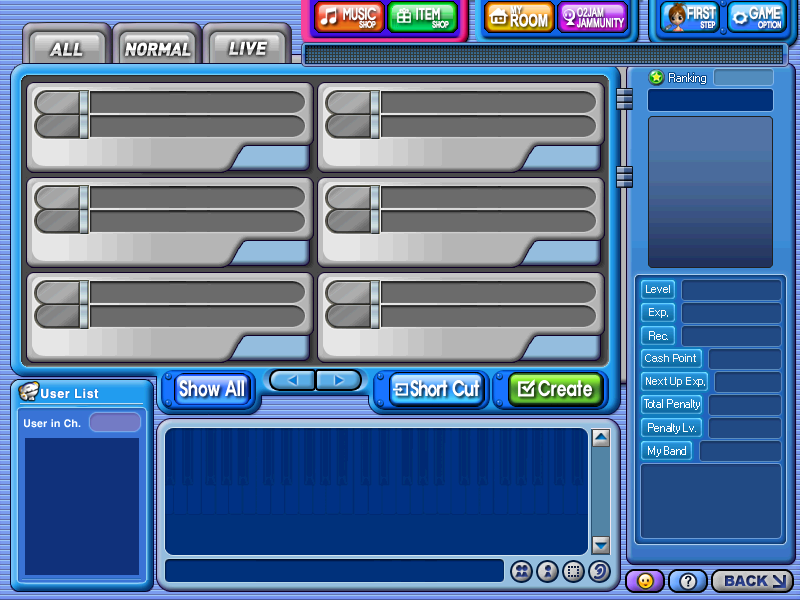
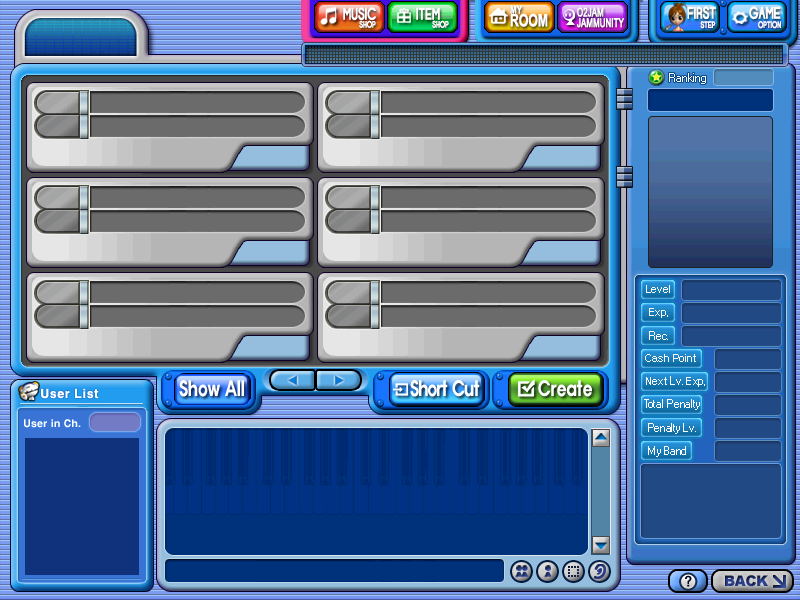
Update game implementation

diff --git a/src/O2/States/StateRoom.cpp b/src/O2/States/StateRoom.cpp
@@ -5,6 +5,17 @@
 #include <Genode/Fx.hpp>
 #include <Genode/UI.hpp>
 
+#include <O2/States/StatePlanet.hpp>
+#include <O2/Components/Room/RoomButton.hpp>
+
+StateRoom::StateRoom(Planet planet, ChannelInfo channel) :
+    State::State(),
+    m_planet(planet),
+    m_channel(channel),
+    m_buttons()
+{
+}
+
 void StateRoom::Initialize()
 {
     State::Initialize();
@@ -12,12 +23,91 @@ void StateRoom::Initialize()
     auto background = Create<Gx::Sprite>("Metadata/State/Room/Background.json");
     AddChild(background);
 
+    auto channelCategory = Create<Gx::Image>("Metadata/State/Room/ChannelCategory.json");
+    switch (m_planet)
+    {
+        case Planet::Kaliope:  channelCategory->SetFrame("Kaliope");  break;
+        case Planet::Kleo:     channelCategory->SetFrame("Kleo");     break;
+        case Planet::Philix:   channelCategory->SetFrame("Philix");   break;
+        case Planet::Melpomin: channelCategory->SetFrame("Melpomin"); break;
+        case Planet::Thalo:    channelCategory->SetFrame("Thalo");    break;
+        case Planet::Euta:     channelCategory->SetFrame("Euta");     break;
+        default: break;
+    }
+    AddChild(channelCategory);
+
+    auto btnFirstStep = Create<Gx::Button>("Metadata/State/Room/Btn_FirstStep.json");
+    AddChild(btnFirstStep);
+
+    auto btnOption = Create<Gx::Button>("Metadata/State/Room/Btn_Option.json");
+    AddChild(btnOption);
+
     auto btnCreateRoom = Create<Gx::Button>("Metadata/State/Room/Btn_CreateRoom.json");
+    btnCreateRoom->SetClickCallback([] (auto& sender, auto& event)
+    {
+
+    });
     AddChild(btnCreateRoom);
 
+    auto roomList = Create<Gx::Repeater>("Metadata/State/Room/RoomList.json");
+    for (unsigned int i = 0; i < 6; i++)
+    {
+        auto roomButton = std::make_unique<RoomButton>(*this);
+        auto roomData = RoomData{
+            i,
+            i % 2 != 0 ? RoomState::Playing : RoomState::Waiting,
+            i <= 2 ? Difficulty::Easy : i <= 4 ? Difficulty::Normal : i <= 6 ? Difficulty::Hard : Difficulty::Master,
+            SpeedType::HiSpeed,
+            (i + 1) * 0.5f,
+            i % 2 == 0
+        };
+
+        roomButton->SetRoomData(roomData);
+
+        roomList->AddChild(roomButton.get());
+        m_buttons.push_back(std::move(roomButton));
+    }
+    AddChild(roomList);
+
+    auto btnShortCut    = Create<Gx::Button>("Metadata/State/Room/Btn_ShortCut.json");
+    AddChild(btnShortCut);
+
+    auto btnShowAll     = Create<Gx::Button>("Metadata/State/Room/Btn_ShowAll.json");
+    auto btnWaitingRoom = Create<Gx::Button>("Metadata/State/Room/Btn_WaitingRoom.json");
+    btnShowAll->SetEnabled(false);
+    btnShowAll->SetVisible(false);
+
+    btnShowAll->SetClickCallback([=] (auto& sender, auto& ev)
+    {
+        btnShowAll->SetEnabled(false);
+        btnShowAll->SetVisible(false);
+        btnWaitingRoom->SetEnabled(true);
+        btnWaitingRoom->SetVisible(true);
+    });
+
+    btnWaitingRoom->SetClickCallback([=] (auto& sender, auto& ev)
+    {
+        btnWaitingRoom->SetEnabled(false);
+        btnWaitingRoom->SetVisible(false);
+        btnShowAll->SetEnabled(true);
+        btnShowAll->SetVisible(true);
+    });
+
+    AddChild(btnWaitingRoom, btnShowAll);
+
+    auto btnRoomLeft  = Create<Gx::Button>("Metadata/State/Room/Btn_RoomLeft.json");
+    auto btnRoomRight = Create<Gx::Button>("Metadata/State/Room/Btn_RoomRight.json");
+    AddChild(btnRoomLeft, btnRoomRight);
+
     auto btnBack = Create<Gx::Button>("Metadata/State/Room/Btn_Back.json");
+    btnBack->SetClickCallback([this] (auto& sender, auto& ev) { OnExitPlanet(); });
     AddChild(btnBack);
 
     m_bgm = Create<sf::Music>("Metadata/State/Room/Music.json", Gx::ResourceScope::Shared);
     Play(m_bgm);
+}
+
+void StateRoom::OnExitPlanet()
+{
+    QueueEvent([this] { GetDirector().SetScene(new StatePlanet(false)); });
 }

diff --git a/src/O2/States/StatePlanet.cpp b/src/O2/States/StatePlanet.cpp
@@ -82,7 +82,7 @@ void StatePlanet::Initialize()
     AddChild(m_container.get());
 
     m_channelBoard = std::make_unique<ChannelBoard>(*this);
-    m_channelBoard->SetEnterChannelCallback([=] (auto channel) { OnEnterChannel(channel); });
+    m_channelBoard->SetEnterChannelCallback([=] (auto planet, auto channel) { OnEnterChannel(planet, channel); });
     AddChild(m_channelBoard.get());
 
     m_bgm = Create<sf::Music>("Metadata/State/Planet/Music.json", Gx::ResourceScope::Shared);
@@ -113,6 +113,7 @@ void StatePlanet::OnEnterPlanet(Planet planet)
         for (int i = 1; i <= 20; i++)
         {
             auto channel = ChannelInfo();
+            channel.Number     = i;
             channel.Population = static_cast<int>((i / 20.f) * 100.f);
 
             planetInfo.Channels.push_back(channel);
@@ -123,7 +124,7 @@ void StatePlanet::OnEnterPlanet(Planet planet)
     m_channelBoard->UpdateChannelList(planetInfo);
 }
 
-void StatePlanet::OnEnterChannel(ChannelInfo channel)
+void StatePlanet::OnEnterChannel(Planet planet, ChannelInfo channel)
 {
     if (channel.Population >= channel.MaxPopulation)
     {
@@ -134,7 +135,7 @@ void StatePlanet::OnEnterChannel(ChannelInfo channel)
     }
 
     m_connecting = true;
-    QueueEvent([=] { GetDirector().SetScene(new StateRoom()); } );
+    QueueEvent([=] { GetDirector().SetScene(new StateRoom(planet, channel)); } );
 }
 
 bool StatePlanet::IsConnecting()

diff --git a/src/O2/Components/Planet/ChannelBoard.cpp b/src/O2/Components/Planet/ChannelBoard.cpp
@@ -72,7 +72,7 @@ void ChannelBoard::Initialize()
     {
         m_sfxEnter->play();
         if (m_callback && m_selectedChannel >= 0 && m_selectedChannel < m_planetInfo.Channels.size())
-            m_callback(m_planetInfo.Channels[m_selectedChannel]);
+            m_callback(m_planetInfo.Planet, m_planetInfo.Channels[m_selectedChannel]);
     });
 
     auto btnChannelLeft  = m_scene->Create<Gx::Button>("Metadata/State/Planet/ChannelBoard/Btn_ChannelLeft.json");
@@ -125,7 +125,7 @@ bool ChannelBoard::InTransition() const
     return m_animating;
 }
 
-void ChannelBoard::SetEnterChannelCallback(std::function<void(ChannelInfo)> callback)
+void ChannelBoard::SetEnterChannelCallback(std::function<void(Planet, ChannelInfo)> callback)
 {
     m_callback = callback;
 }

diff --git a/include/O2/Components/Planet/ChannelBoard.hpp b/include/O2/Components/Planet/ChannelBoard.hpp
@@ -38,7 +38,7 @@ public:
     void SwitchTab(Tab tab);
 
     bool InTransition() const;
-    void SetEnterChannelCallback(std::function<void(ChannelInfo)> callback);
+    void SetEnterChannelCallback(std::function<void(Planet, ChannelInfo)> callback);
 
 private:
     const unsigned int CHANNEL_LIST_PER_PAGE = 20;
@@ -67,7 +67,7 @@ private:
 
     bool m_animating;
     int m_selectedChannel;
-    std::function<void(ChannelInfo)> m_callback;
+    std::function<void(Planet, ChannelInfo)> m_callback;
     std::vector<std::unique_ptr<ChannelButton>> m_channelButtons;
 };
 

diff --git a/include/O2/States/StateRoom.hpp b/include/O2/States/StateRoom.hpp
@@ -8,15 +8,24 @@
 #include <Genode/Tasks/Sequence.hpp>
 
 #include <O2/States/State.hpp>
+#include <O2/Components/Room/RoomButton.hpp>
+
 #include <O2/Data/Planet.hpp>
+#include <O2/Data/Room.hpp>
 
 class StateRoom : public State
 {
 public:
+    StateRoom(Planet planet, ChannelInfo channel);
     virtual void Initialize();
 
 private:
+    void OnExitPlanet();
+
     sf::Music *m_bgm;
+    Planet m_planet;
+    ChannelInfo m_channel;
+    std::vector<std::unique_ptr<RoomButton>> m_buttons;
 };
 
 #endif

diff --git a/include/O2/States/StatePlanet.hpp b/include/O2/States/StatePlanet.hpp
@@ -22,7 +22,7 @@ private:
     bool IsConnecting();
 
     void OnEnterPlanet(Planet planet);
-    void OnEnterChannel(ChannelInfo channel);
+    void OnEnterChannel(Planet planet, ChannelInfo channel);
 
     std::unique_ptr<ChannelBoard>    m_channelBoard;
     std::unique_ptr<Gx::UiContainer> m_container;

diff --git a/include/O2/Data/Planet.hpp b/include/O2/Data/Planet.hpp
@@ -16,6 +16,7 @@ enum Planet
 
 struct ChannelInfo
 {
+    int Number        = 0;
     int Population    = 0;
     int MaxPopulation = 100;
 };
